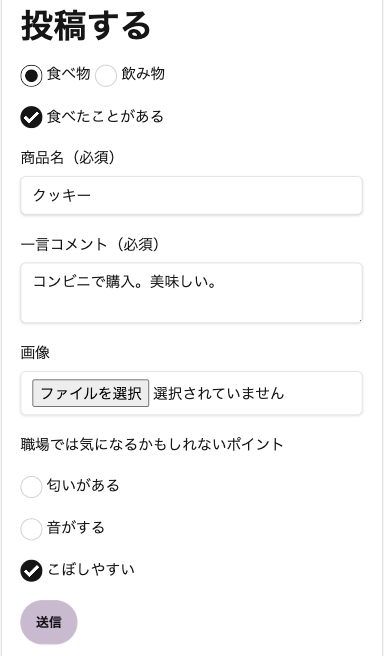
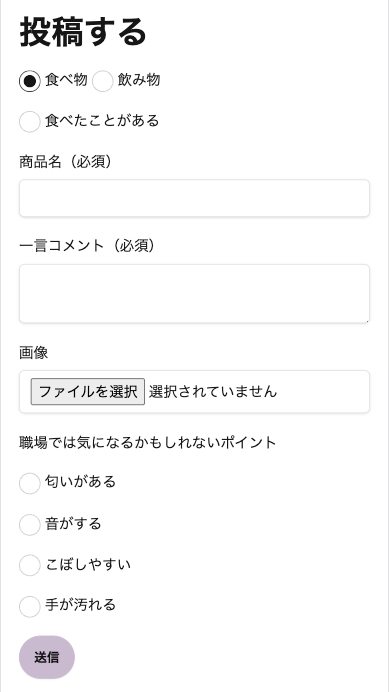
postsテーブルにhands_dirtyカラム追加,合わせてtopページの説明を修正#46

diff --git a/app/controllers/posts_controller.rb b/app/controllers/posts_controller.rb
@@ -76,6 +76,7 @@ class PostsController < ApplicationController
       @posts = @posts.where(smell: params[:smell] == '1') if params[:smell].present?
       @posts = @posts.where(sound: params[:sound] == '1') if params[:sound].present?
       @posts = @posts.where(spill: params[:spill] == '1') if params[:spill].present?
+      @posts = @posts.where(hands_dirty: params[:hands_dirty] == '1') if params[:hands_dirty].present?
       @posts = @posts.where(category: params[:category]) if params[:category].present?
       @posts.all.order(created_at: :desc).page(params[:page])
   end
@@ -85,6 +86,6 @@ class PostsController < ApplicationController
   end
 
   def post_params
-    params.require(:post).permit(:title, :body, :image, :category, :eaten, :smell, :sound, :spill)
+    params.require(:post).permit(:title, :body, :image, :category, :eaten, :smell, :sound, :spill, :hands_dirty)
   end
 end

diff --git a/db/schema.rb b/db/schema.rb
@@ -10,7 +10,7 @@
 #
 # It's strongly recommended that you check this file into your version control system.
 
-ActiveRecord::Schema[7.0].define(version: 2024_03_05_072138) do
+ActiveRecord::Schema[7.0].define(version: 2024_04_28_114937) do
   # These are extensions that must be enabled in order to support this database
   enable_extension "plpgsql"
 
@@ -45,6 +45,7 @@ ActiveRecord::Schema[7.0].define(version: 2024_03_05_072138) do
     t.datetime "created_at", null: false
     t.datetime "updated_at", null: false
     t.bigint "user_id", null: false
+    t.boolean "hands_dirty"
     t.index ["user_id"], name: "index_posts_on_user_id"
   end
 

diff --git a/db/migrate/20240428114937_add_column_posts.rb b/db/migrate/20240428114937_add_column_posts.rb
@@ -1,0 +1,5 @@
+class AddColumnPosts < ActiveRecord::Migration[7.0]
+  def change
+    add_column :posts, :hands_dirty, :boolean
+  end
+end
